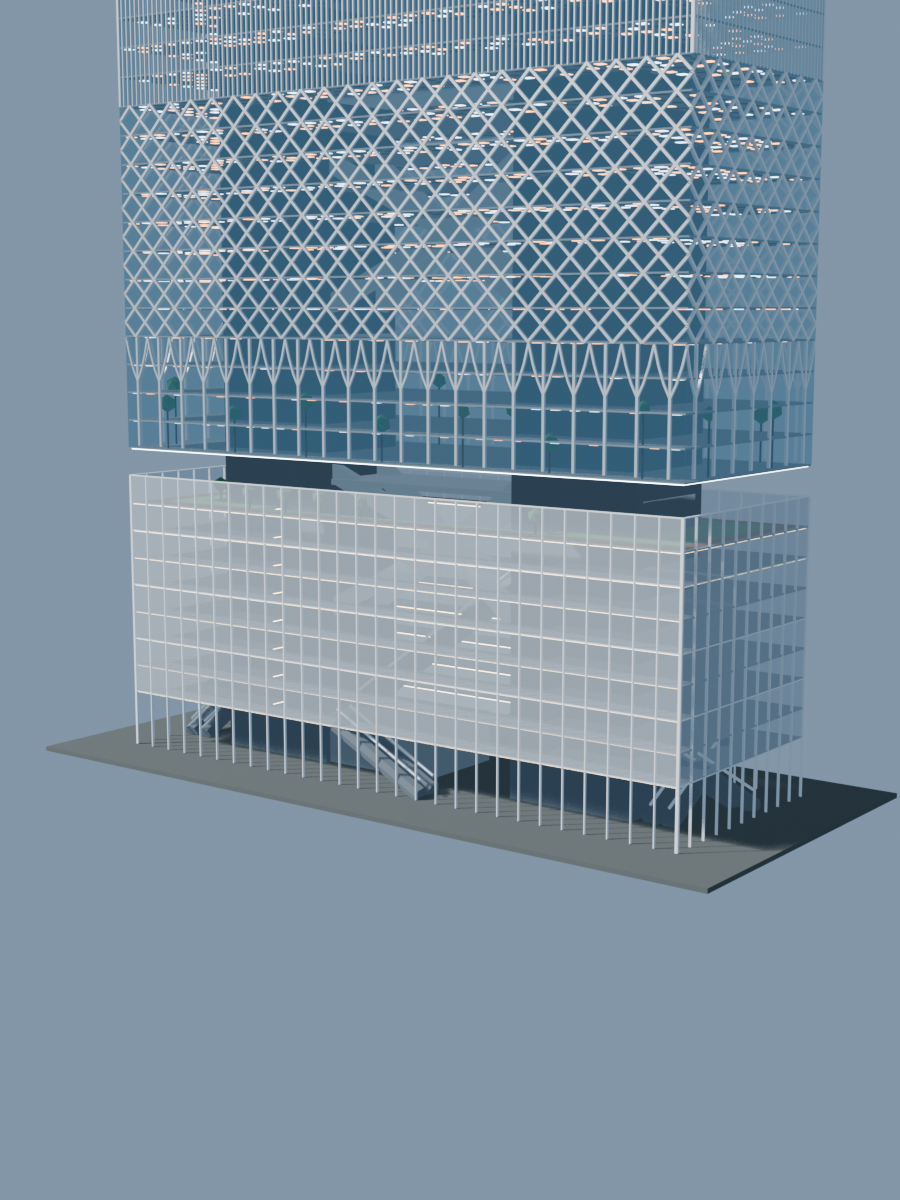
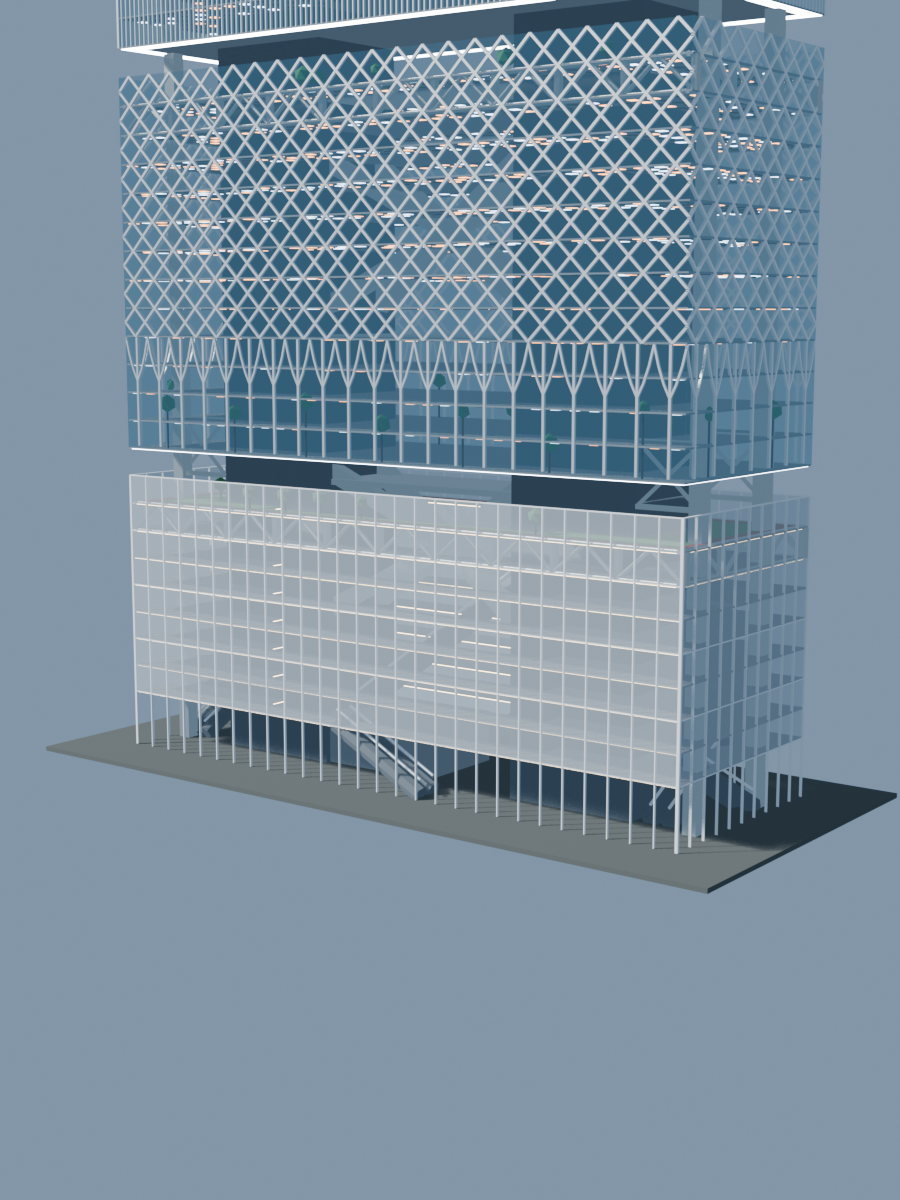
feat: three-storey refuge component, bridge cove and refreshed views

diff --git a/build_the_stack.py b/build_the_stack.py
@@ -85,14 +85,21 @@ VOIDS = (
 BRIDGE_FIRST_FLOOR = 11
 BRIDGE_LEVELS = tuple(VOID_BOTTOM + (BRIDGE_FIRST_FLOOR + i) * APARTMENT_H
                       for i in range(4))
-# One whole apartment storey is given over to a structural truss: an Abeno
-# Harukas-style chevron truss across the full floor plate, wrapping all four
-# facades at the full building width and depth, not only the bridge span across
-# the void. Like every other truss it stays recessed behind the curtain wall,
-# which runs on over the storey, so it is covered by glass rather than exposed.
-# The bridge deck and the floor above it stay as floor plates.
-BRIDGE_TRUSS_Z0 = BRIDGE_LEVELS[1]
-BRIDGE_TRUSS_Z1 = BRIDGE_LEVELS[2]
+# The three-storey bridge reads as three stacked parts, like the refuges: the
+# lowest storey is a full-floor Abeno Harukas-style chevron truss, recessed behind
+# the apartment curtain wall so it is covered by glass rather than exposed; the
+# middle storey is a planted playground deck glazed across the void on the long
+# faces; and the top storey is left completely open, with no skin, for natural
+# air. The connection itself is carried by the truss storey and the deck storey.
+BRIDGE_TRUSS_Z0 = BRIDGE_LEVELS[0]
+BRIDGE_TRUSS_Z1 = BRIDGE_LEVELS[1]
+BRIDGE_GARDEN_Z = BRIDGE_LEVELS[1]
+BRIDGE_OPEN_Z0 = BRIDGE_LEVELS[2]
+BRIDGE_OPEN_Z1 = BRIDGE_LEVELS[3]
+# The planted deck has no ceiling, exactly like the garden decks of the refuges:
+# the plate above it is dropped, so the deck opens straight into the storey over
+# it, which is then left with no exterior wall.
+BRIDGE_DROP_LEVEL = BRIDGE_LEVELS[2]
 
 # Abeno Harukas-style perimeter chevron trusses, reused for the bridge storey
 # and for a belt band below each refuge: complete upward chevrons with both feet
@@ -180,34 +187,36 @@ LEVEL_OFFICE_HIGH = LEVEL_BASE + 13 * OFFICE_H
 LEVEL_HOTEL_HIGH = LEVEL_BASE + 21 * OFFICE_H
 
 # Open refuge storeys: one directly above the mall, one in the middle of the
-# office block, and one directly below the apartment block. Each is a
-# double-height (10 m) volume whose bottom plate is dropped, so it opens
-# downward onto its garden/running-track deck. The deck is enclosed by the
-# curtain wall of the band it belongs to, so nobody can fall off, while the
-# storey above the glazing is left completely open for natural air; the chevron
-# belt truss sits in the storey below the deck, also inside that curtain wall.
-# None of the refuges carries a facade of its own, so the block above each one
-# reads as lifted clear of the block below.
+# office block, and one directly below the apartment block. Each is a volume
+# whose bottom plates are dropped, so it opens downward onto its garden /
+# running-track deck. The deck is enclosed by the curtain wall of the band it
+# belongs to, so nobody can fall off, while the storey above the glazing is left
+# completely open for natural air; the chevron belt truss sits in the storey
+# below the deck, also inside that curtain wall. Every refuge is the same three
+# single-storey component — truss storey, running-track storey, open storey — so
+# no rentable floor is given away to the refuge. None of them carries a facade
+# of its own, so the block above each one reads as lifted clear of the block
+# below.
 REFUGE_MALL = (LEVEL_BASE, LEVEL_BASE + OFFICE_H)
 REFUGE_OFFICE = (LEVEL_OFFICE_HIGH + OFFICE_H, LEVEL_OFFICE_HIGH + 2 * OFFICE_H)
 REFUGE_APARTMENT = (LEVEL_APARTMENT - OFFICE_H, LEVEL_APARTMENT)
 REFUGES = (REFUGE_MALL, REFUGE_OFFICE, REFUGE_APARTMENT)
 REFUGE_OPEN_H = 2 * OFFICE_H
+# The plate at the top of the track storey is dropped at every refuge, so the
+# open storey above reads as one with it: neither has a ceiling.
 REFUGE_DROP_LEVELS = (REFUGE_MALL[0], REFUGE_OFFICE[0], REFUGE_APARTMENT[0])
 REFUGE_FLOOR_LEVELS = (REFUGE_MALL[0] - MALL_H,
                        REFUGE_OFFICE[0] - OFFICE_H,
                        REFUGE_APARTMENT[0] - OFFICE_H)
 
 # (z0, z1, band style) from the ground up, in the order read off the physical
-# facade model: base, refuge, trees, the diagrid (which also glazes the
-# mid-office refuge's running-track storey so the band stays one form), the open
-# storey above that refuge, the vertical-fin office block running up to the
-# apartment refuge (the former louvre band and its eye are gone, replaced by the
-# same fine vertical grid), refuge, then the masonry band that runs to the flat
-# top. Every belt truss sits behind the facade of the band it belongs to, so the
-# glazing runs on unbroken.
+# facade model. Every refuge is the same three-storey component: a truss storey,
+# a running-track storey above it and a fully open storey on top. The volume's
+# own facade runs on unbroken over the truss and track storeys and stops at the
+# open storey, exactly as the mall's base does — the truss and the deck read
+# through that same glass, never inside a band of their own.
 BANDS = (
-    (0.0, LEVEL_BASE, "base"),
+    (0.0, REFUGE_MALL[0], "base"),
     (REFUGE_MALL[0], REFUGE_MALL[1], "refuge"),
     (LEVEL_RETAIL, LEVEL_OFFICE_LOW, "garden"),
     (LEVEL_OFFICE_LOW, REFUGE_OFFICE[0], "diagrid"),
@@ -574,9 +583,9 @@ def room_ceiling_lights(mats):
         # the open refuge, so it takes no panel grid (no floating fixtures).
         if zc in REFUGE_DROP_LEVELS:
             continue
-        # The truss storey is structure, not rooms: it takes no ceiling fixtures
-        # anywhere on the plate.
-        if zc == BRIDGE_TRUSS_Z1:
+        # The bridge's truss, planted-deck and open storeys take no rooms, so
+        # they take no ceiling fixtures anywhere on the plate.
+        if zc in BRIDGE_LEVELS[1:]:
             continue
         z = zc - 0.14 - ROOM_LIGHT_H / 2
         for i, px in enumerate(xs):
@@ -634,13 +643,15 @@ def refuge_ceiling_lights(mats):
     no rooms and so take no panel grid. At the apartment refuge the void splits
     the plate into two towers, so each half closes its own ring: the long bars
     stop at the opening and a bar runs back along each void edge, rather than
-    one strip being shared straight across the slot."""
+    one strip being shared straight across the slot. The bridge's open storey
+    takes the same cove on its ceiling, so the block above it reads with the
+    same lit underside as every other block."""
     outer = WIDTH / 2 + FACADE - GLASS_BACK - GLASS_T - MALL_GLOW_CLEAR
     outer_y = DEPTH / 2 + FACADE - GLASS_BACK - GLASS_T - MALL_GLOW_CLEAR
     w = REFUGE_GLOW_W
     items = []
     for zc in storey_levels():
-        if not is_refuge(zc):
+        if not (is_refuge(zc) or zc == BRIDGE_LEVELS[-1]):
             continue
         z = zc - 0.14 - ROOM_LIGHT_H / 2
         holes = ([(vx - vw / 2, vx + vw / 2) for vx, vz, vw, vh in VOIDS]
@@ -919,17 +930,18 @@ def chevron_face(face, u0, u1, z0, z1, mats, prefix, outer, corner_start=False):
 
 def bridge_glazing(mats):
     """The bridge is glazed across the void with the same curtain-wall component
-    as the apartment band, on the same mullion module and phase, over all three
-    storeys: the lower and upper ones are occupied floor space, and the middle
-    one wraps the chevron truss so it is covered by glass rather than exposed."""
+    as the apartment band, on the same mullion module and phase, over its two
+    occupied storeys: the truss storey (so the truss is covered by glass rather
+    than exposed) and the planted deck storey above it. The top storey is left
+    unglazed, an open slot for natural air."""
     w = BAND_BAY
     for face in ("N", "S"):
-        window_wall(face, -w, w, BRIDGE_LEVELS[0], BRIDGE_LEVELS[-1], mats,
+        window_wall(face, -w, w, BRIDGE_LEVELS[0], BRIDGE_OPEN_Z0, mats,
                     "Bridge")
 
 
 def bridge_truss(mats):
-    """One whole apartment storey is an Abeno Harukas-style chevron truss, not an
+    """The bridge's lowest storey is an Abeno Harukas-style chevron truss, not an
     occupied floor: complete upward chevrons with boundary posts and chords wrap
     all four facades at the full storey width and depth, so the truss reads
     across the entire floor plate rather than only over the void. It stays
@@ -944,6 +956,39 @@ def bridge_truss(mats):
         span = WIDTH if face in ("N", "S") else DEPTH
         chevron_face(face, -span / 2, span / 2, z0, z1, mats, "BridgeTruss",
                      outer)
+
+
+def bridge_garden(mats):
+    """The bridge's middle storey is a planted playground deck spanning the void,
+    so the connection reads as a green bridge rather than a bare floor: a lawn
+    with a running track and a scatter of trees, inside the curtain wall carried
+    across the void."""
+    z = BRIDGE_GARDEN_Z
+    hx = BAND_BAY - GARDEN_MARGIN
+    hy = DEPTH / 2 - GARDEN_MARGIN
+    cube("Stack_Bridge_Garden_Lawn", (0, 0, z + 0.14), (2 * hx, 2 * hy, 0.10),
+         mats["lawn"])
+    tx, ty = hx - TRACK_INSET, hy - TRACK_INSET
+    for side, (px, py, dx, dy) in {
+            "N": (0, ty - TRACK_W / 2, 2 * tx, TRACK_W),
+            "S": (0, -(ty - TRACK_W / 2), 2 * tx, TRACK_W),
+            "E": (tx - TRACK_W / 2, 0, TRACK_W, 2 * (ty - TRACK_W)),
+            "W": (-(tx - TRACK_W / 2), 0, TRACK_W, 2 * (ty - TRACK_W)),
+    }.items():
+        cube(f"Stack_Bridge_Garden_Track_{side}", (px, py, z + 0.20),
+             (dx, dy, 0.10), mats["track"])
+    rng = random.Random(7300)
+    placed = 0
+    for _ in range(48):
+        if placed >= 6:
+            break
+        px = rng.uniform(-hx + 2, hx - 2)
+        py = rng.uniform(-hy + 2, hy - 2)
+        beam("Stack_Bridge_Garden_Trunk", (px, py, z + 0.16),
+             (px, py, z + 2.5), 0.16, mats["trunk"])
+        sphere("Stack_Bridge_Garden_Canopy", (px, py, z + 2.9),
+               rng.uniform(1.0, 1.5), mats["foliage"])
+        placed += 1
 
 
 def refuge_belt_trusses(mats):
@@ -1188,11 +1233,16 @@ def add_interior(mats):
         if zc <= LEVEL_BASE:
             continue
         # The plate at the top of each open refuge is dropped, so the refuge
-        # below it opens into a double-height garden.
-        if zc in REFUGE_DROP_LEVELS:
+        # below it opens into a double-height garden. The bridge's planted deck
+        # gets the same treatment.
+        if zc in REFUGE_DROP_LEVELS or zc == BRIDGE_DROP_LEVEL:
             continue
+        # The void runs on above the bridge, so the plate at the top of the
+        # bridge is cut around it too: the bridge's planted deck stays open to
+        # the slot, with no ceiling over it, exactly like the apartment refuge.
         cut = [(x - w / 2, x + w / 2) for x, z, w, h in VOIDS
-               if z - h / 2 <= zc < z + h / 2 and not on_bridge(zc)]
+               if z - h / 2 <= zc < z + h / 2
+               and (not on_bridge(zc) or zc >= BRIDGE_LEVELS[-1])]
         for a, b in u_intervals(-slab_half, slab_half, cut):
             cube("Stack_Floor_Slab", ((a + b) / 2, 0, zc),
                  (b - a, slab_depth, 0.28), mats["slab"])
@@ -1370,14 +1420,24 @@ def build(args):
         for face in FACES:
             builder = BAND_BUILDERS[band]
             if builder is band_brick:
-                # The apartment curtain wall runs on over the bridge truss
-                # storey, so the truss stays behind glass.
-                builder(face, z0, z1, mats, holes=void_holes(face))
+                # The apartment curtain wall rings the bridge truss and sports
+                # storeys, but stops at the bridge's open storey: that one has no
+                # exterior wall at all, like every refuge.
+                for a, b in ((z0, BRIDGE_OPEN_Z0), (BRIDGE_OPEN_Z1, z1)):
+                    if b - a > 0.01:
+                        # Clip each void hole to its own segment, so the
+                        # curtain wall can never run into the bridge's open
+                        # storey (which has no wall at all).
+                        holes = [(u0, u1, max(a, c), min(b, d))
+                                 for u0, u1, c, d in void_holes(face)
+                                 if max(a, c) < min(b, d)]
+                        builder(face, a, b, mats, holes=holes)
             else:
                 builder(face, z0, z1, mats)
     void_linings(mats)
     bridge_glazing(mats)
     bridge_truss(mats)
+    bridge_garden(mats)
     refuge_belt_trusses(mats)
     refuge_gardens(mats)
     band_roof(mats)

diff --git a/verify_the_stack.py b/verify_the_stack.py
@@ -234,8 +234,11 @@ def main():
         and covers([z for z in upper_levels
                     if z not in refuge_levels
                     and z not in (level_base, level_office_high + 5.0,
+                                  level_apartment - 10.0,
                                   level_apartment - 5.0,
-                                  level_apartment + 13 * 4.0)],
+                                  level_apartment + 12 * 4.0,
+                                  level_apartment + 13 * 4.0,
+                                  level_apartment + 14 * 4.0)],
                    light_z(room_objs)),
         # Lights hang from a plate: no panel may sit under a dropped refuge
         # plate with nothing above it to fix to.
@@ -333,18 +336,35 @@ def main():
     checks["void edges reuse the floor slabs"] = not any(
         n.startswith("Stack_Void_") and n.rsplit("_", 1)[-1] in ("Lintel", "Sill")
         for n in names)
-    # The bridge is glazed across the void in the apartment band's curtain-wall
-    # language over all three storeys, including the middle one, so the chevron
-    # truss is covered by glass rather than exposed. The truss storey is
-    # structure, so it still takes no ceiling fixtures.
+    # The bridge reads as three stacked parts: the lowest storey is a full-floor
+    # chevron truss, the middle storey is the glazed planted playground deck, and
+    # the top storey is left unglazed as an open ventilated slot.
+    bridge_truss_z0 = level_apartment + 11 * 4.0
+    bridge_truss_z1 = level_apartment + 12 * 4.0
+    bridge_open_z0 = level_apartment + 13 * 4.0
+    bridge_open_z1 = level_apartment + 14 * 4.0
     checks["bridge is glazed across the void"] = (
-        count("Bridge_Glass") >= 6 and count("Bridge_Spandrel") >= 6
+        count("Bridge_Glass") >= 4 and count("Bridge_Spandrel") >= 4
         and count("Bridge_Mullion") >= 40 and count("Bridge_Transom") >= 6)
-    bridge_truss_z0 = level_apartment + 12 * 4.0
-    bridge_truss_z1 = level_apartment + 13 * 4.0
     checks["bridge truss storey is behind glass"] = any(
         bridge_truss_z0 < center_z(o) < bridge_truss_z1
         for o in bpy.data.objects if "Bridge_Glass" in o.name)
+    # The open top storey carries no glazing across the void, so the air is free.
+    bridge_glass_z = [(o.matrix_world @ Vector(c)).z for o in bpy.data.objects
+                      if "Bridge_Glass" in o.name for c in o.bound_box]
+    checks["bridge top storey is open"] = (
+        bool(bridge_glass_z) and max(bridge_glass_z) <= bridge_open_z0 + 0.5)
+    # That open storey has no exterior wall on any face, like every refuge: no
+    # facade element may sit in it.
+    checks["bridge open storey has no wall"] = not any(
+        o.name[:2] in ("N_", "S_", "E_", "W_")
+        and bridge_open_z0 < center_z(o) < bridge_open_z1
+        for o in bpy.data.objects)
+    # The middle storey is a planted playground deck, not a bare floor.
+    checks["bridge carries a planted deck"] = (
+        count("Stack_Bridge_Garden_Lawn") > 0
+        and count("Stack_Bridge_Garden_Track_") >= 4
+        and count("Stack_Bridge_Garden_Canopy") >= 4)
     # The whole truss storey wraps a chevron truss on all four facades at the
     # full building width and depth, not just the bridge span across the void.
     truss_z0, truss_z1 = bridge_truss_z0, bridge_truss_z1
@@ -363,11 +383,13 @@ def main():
     checks["truss storey is wrapped by the apartment facade"] = any(
         "_Brick" in o.name and truss_z0 < center_z(o) < truss_z1
         for o in bpy.data.objects)
-    bridge_mid_z1 = level_apartment + 13 * 4.0
-    checks["bridge middle has no ceiling lights"] = not any(
-        abs(p.z - bridge_mid_z1) < 0.3
+    # The truss, deck and open storeys are structure and garden, not rooms, so
+    # none of them takes ceiling panel lights.
+    checks["bridge has no ceiling lights"] = not any(
+        abs(p.z - (level_apartment + n * 4.0)) < 0.4
         for o in room_objs
-        for p in (o.matrix_world @ v.co for v in o.data.vertices))
+        for p in (o.matrix_world @ v.co for v in o.data.vertices)
+        for n in (12, 13, 14))
     # All three refuges stand on an Abeno Harukas-style chevron belt truss
     # wrapped on all four faces, on the storey directly BENEATH the running-track
     # deck, not on the track level itself.
@@ -378,7 +400,23 @@ def main():
             for z in (level_base, level_office_high + 5.0, level_apartment - 5.0)
             for part in ("Diag", "Post"))
         and bool(belt_z)
-        and max(belt_z) < level_apartment - 10.0 + 0.5)
+        and max(belt_z) < level_apartment - 5.0 + 0.5)
+    # The apartment refuge is the same three single-storey component: the belt
+    # truss sits in the storey under the deck, the deck is one storey, and only
+    # the plate at the top of the track storey is dropped so the open storey
+    # above it reads as one with it.
+    deck_z = level_apartment - 10.0
+    top_plate = level_apartment - 5.0
+    belt170 = [(o.matrix_world @ Vector(c)).z for o in bpy.data.objects
+               if "Refuge_Belt_170" in o.name for c in o.bound_box]
+    checks["apartment track layer is one storey"] = (
+        bool(belt170) and abs(max(belt170) - deck_z) < 0.6
+        and any(abs(center_z(o) - deck_z) < 0.2
+                for o in bpy.data.objects
+                if o.name.startswith("Stack_Floor_Slab"))
+        and not any(abs(center_z(o) - top_plate) < 0.2
+                    for o in bpy.data.objects
+                    if o.name.startswith("Stack_Floor_Slab")))
     # The mid-office refuge is three stacked parts: the chevron belt inside the
     # diagrid glazing below, the running-track storey glazed by the diagrid band
     # carried on over it, and the fully open storey above. The facade stays one
@@ -391,12 +429,13 @@ def main():
         and any(abs(center_z(o) - level_office_high) < 0.2
                 for o in bpy.data.objects
                 if o.name.startswith("Stack_Floor_Slab")))
-    # The diagrid band runs on over the running-track storey, so its top is the
-    # refuge's open edge and the track glazing keeps the diagrid form.
+    # The diagrid band runs on over the mid-office refuge's truss and track
+    # storeys (its own volume's facade, exactly as the mall base carries the
+    # truss and the deck), and stops at the fully open storey above them.
     level_office_low = level_base + 5 * 5.0
     diagrid_z = [(o.matrix_world @ Vector(c)).z for o in bpy.data.objects
                  if "_Diagrid" in o.name for c in o.bound_box]
-    checks["diagrid carries over the track storey"] = (
+    checks["diagrid runs over the truss and track storeys"] = (
         bool(diagrid_z)
         and abs(min(diagrid_z) - level_office_low) < 0.6
         and abs(max(diagrid_z) - (level_office_high + 5.0)) < 0.6)

diff --git a/README.md b/README.md
@@ -49,7 +49,9 @@ The image above captures the current Blender working view. The images below are 
 
 ## The Stack
 
-A second, independent procedural study in this repository: an image-led approximation of MVRDV's *The Stack* competition proposal, built by `build_the_stack.py`. It is a slender 115 × 40 m slab rising to 301.8 m, read as a vertical stack of horizontal neighbourhood bands — a double-height retail hall, garden, diagrid, fin, louvre and masonry bands — pierced by one large apartment void with a three-storey bridge, held by two service cores braced by giant X-braces, and crowned by a planted roof inside an open glazed edge.
+A second, independent procedural study in this repository: an image-led approximation of MVRDV's *The Stack* competition proposal, built by `build_the_stack.py`. It is a slender 115 × 40 m slab rising to 301.8 m, read as a vertical stack of horizontal neighbourhood bands — a double-height retail hall, garden, diagrid, fin and masonry bands — pierced by one large apartment void with a three-storey bridge, held by two service cores braced by giant X-braces, and crowned by a planted roof inside an open glazed edge. Every refuge is the same three-storey component: a chevron truss storey, a glazed running-track deck with no ceiling, and a fully open storey above.
+
+Generated and iterated procedurally with **DeepSeek 4.1**.
 
 | Whole building | Apartment curtain wall |
 | --- | --- |
